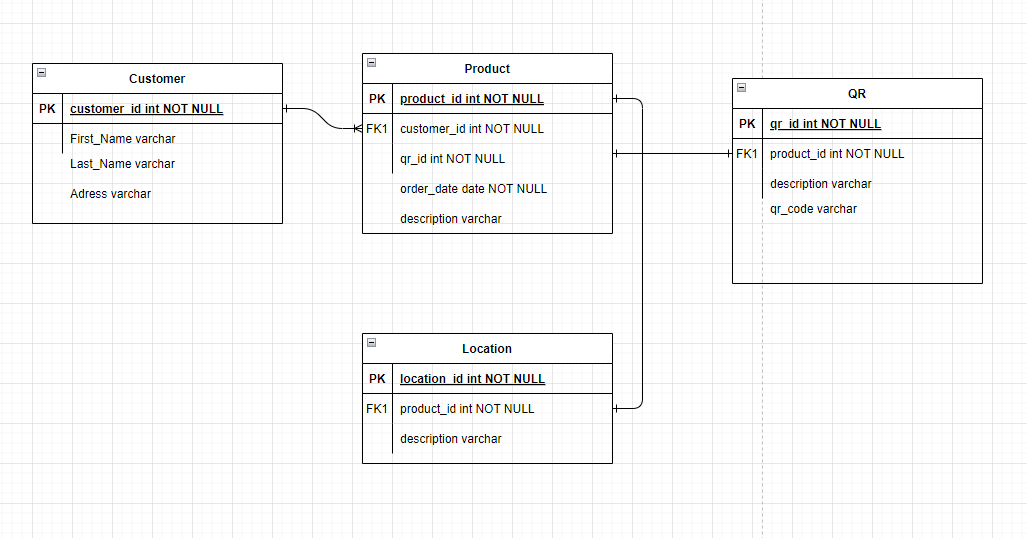
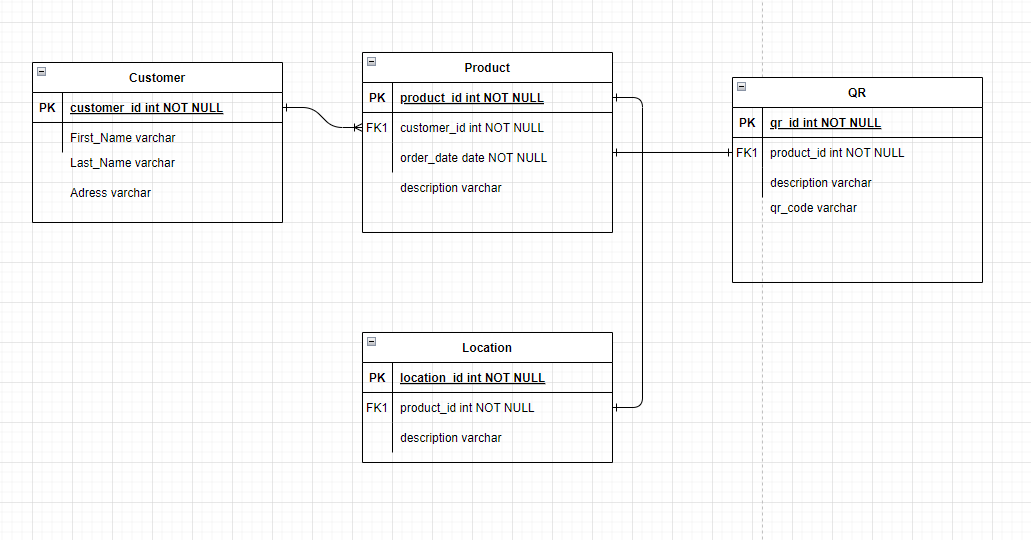
datamodel

diff --git a/QR_Code_Generator/app.py b/QR_Code_Generator/app.py
@@ -9,6 +9,7 @@ app = Flask(__name__)
 def create_tables():
     conn = sqlite3.connect("qr_codes.db")
     cursor = conn.cursor()
+
     cursor.execute("""
     CREATE TABLE IF NOT EXISTS customers (
         customer_id INTEGER PRIMARY KEY AUTOINCREMENT,
@@ -17,11 +18,11 @@ def create_tables():
         Address TEXT NOT NULL
     )
     """)
+
     cursor.execute("""
     CREATE TABLE IF NOT EXISTS products (
         product_id INTEGER PRIMARY KEY AUTOINCREMENT,
         customer_id INTEGER,
-        qr_id INTEGER,
         order_date DATE NOT NULL,
         description TEXT NOT NULL,
         FOREIGN KEY (customer_id) REFERENCES customers (customer_id)
@@ -67,7 +68,7 @@ def index():
                        (first_name, last_name, address))
         customer_id = cursor.lastrowid
 
-        cursor.execute("INSERT INTO products (customer_id, order_date, description) VALUES (?, ?, ?)",
+        cursor.execute("INSERT INTO products (customer_id, order_date, description) VALUES (?, ?, ?, ?)",
                             (customer_id, order_date, product_description))
         product_id = cursor.lastrowid
 
